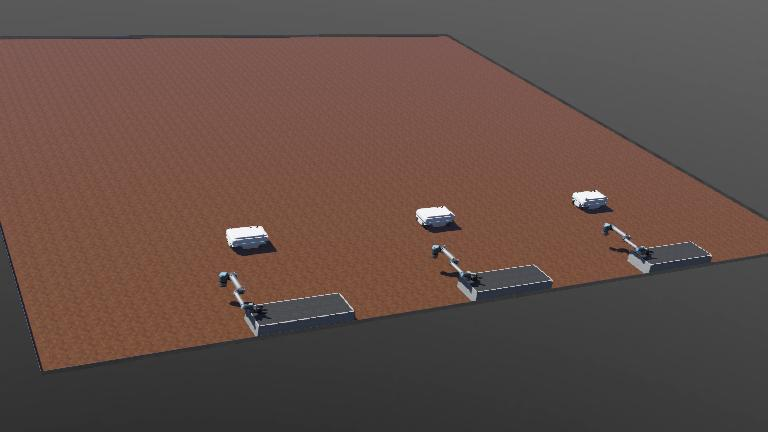
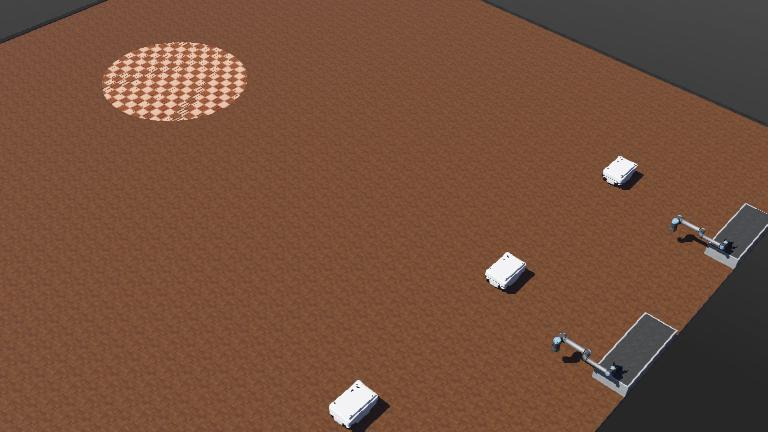
implement dispensing mq

diff --git a/controllers/dispenser_controller/dispenser_controller.py b/controllers/dispenser_controller/dispenser_controller.py
@@ -1,6 +1,11 @@
 """dispenser_controller controller."""
 
 import logging
+import pyrqlite.dbapi2 as dbapi2
+from random import randrange
+import json
+import threading
+import pika
 import time
 from controller import Supervisor
 
@@ -9,12 +14,71 @@ logging.basicConfig(
     format='%(asctime)s - %(levelname)s - %(message)s',  # Set the log message format
 )
 
-robot = Supervisor()
-root_node = robot.getRoot()
-children_field = root_node.getField('children')
+class Dispenser:
+    def __init__(self, db_host:str = 'localhost', db_port:int = 4001, mq_host:str = 'localhost'):
+        self.robot = Supervisor()
+        self.db_host = db_host
+        self.db_port = db_port
+        self.mq_host = mq_host
+        self.timestep = int(self.robot.getBasicTimeStep())
+        self.channel = pika.BlockingConnection(
+            pika.ConnectionParameters(self.mq_host)).channel()
+        self.all_nodes = self.robot.getRoot().getField('children')
+        self.dispenser_counter = 0
 
-timestep = int(robot.getBasicTimeStep())
-children_field.importMFNodeFromString(-1, 'Can { translation -4.3 -9.57 0.37, name "CAN" }')
+        self._init_db()
+        self._init_mq()
 
-while robot.step(timestep) != -1:
-    pass
+        logging.info(f"{self.robot.getName()} initialization complete.")
+
+    def _init_db(self):
+        self.connection = dbapi2.connect(
+            host=self.db_host,
+            port=self.db_port,
+            connect_timeout = 10
+        )
+
+    def _init_mq(self):
+        mq_connection = pika.BlockingConnection(pika.ConnectionParameters(self.mq_host))
+        self.channel = mq_connection.channel()
+        self.channel.exchange_declare(exchange='dispense', exchange_type='direct')
+        result = self.channel.queue_declare(queue=self.robot.name, exclusive=False)
+        self.channel.queue_bind(exchange='dispense', queue=result.method.queue)
+        self.channel.basic_consume(queue=result.method.queue,
+                      auto_ack=True,
+                      on_message_callback=self._message_queue_cb)
+        threading.Thread(target=self.channel.start_consuming).start()
+
+    def _generate_can_node_string(self, x, y, z):
+        result = ""
+        result += "Can { translation "
+        result += f"{x} {y} {z}"
+        result += ", name "
+        result += f"\"can{self.dispenser_counter}\""
+        result += "}"
+        self.dispenser_counter += 1
+        return result
+
+    def _message_queue_cb(self, ch, method, properties, body):
+        msg_json = body.decode('utf8').replace("'", '"')
+        msg = json.loads(msg_json)
+        logging.info(f"Received Dispense: {msg}")
+        if "item" in msg.keys() and "dispenserId" in msg.keys():
+            if msg["item"] == "Can":
+                # TODO: Use DB
+                if msg["dispenserId"] == "ConveyorBelt1":
+                    self.all_nodes.importMFNodeFromString(-1, self._generate_can_node_string(-4.3, -9.57, 0.37))
+                else:
+                    logging.error("Unknown dispenserId requested")
+            else:
+                logging.error("Unknown item requested")
+        else:
+            logging.error(f"Dispense message has errors.")
+
+
+    def run(self):
+        while self.robot.step(self.timestep) != -1:
+            pass
+
+robot = Dispenser()
+robot.run()

diff --git a/controllers/waypoint_follow_controller/waypoint_follow_controller.py b/controllers/waypoint_follow_controller/waypoint_follow_controller.py
@@ -36,14 +36,17 @@ class WaypointFollower:
         self.gps_update_hz = gps_update_hz
         self.move_queue = []
         self.timestep = int(self.robot.getBasicTimeStep())
+        self.channel = pika.BlockingConnection(
+            pika.ConnectionParameters(self.mq_host)).channel()
 
         self._init_sim_components()
         self._init_db()
         self._init_mq()
 
         threading.Thread(target=self._log_state).start()
-        threading.Thread(target=self.channel.start_consuming).start()
         threading.Thread(target=self._process_move_queue).start()
+
+        logging.info(f"{self.robot.getName()} initialization complete.")
 
     def _init_sim_components(self):
         self.motor_left_wheel: Motor = self.robot.getDevice("middle_left_wheel_joint")
@@ -67,14 +70,13 @@ class WaypointFollower:
         )
 
     def _init_mq(self):
-        mq_connection = pika.BlockingConnection(pika.ConnectionParameters(self.mq_host))
-        self.channel = mq_connection.channel()
-        self.channel.exchange_declare(exchange='move', exchange_type='fanout')
+        self.channel.exchange_declare(exchange='move', exchange_type='direct')
         result = self.channel.queue_declare(queue=self.robot.name, exclusive=False)
         self.channel.queue_bind(exchange='move', queue=result.method.queue)
         self.channel.basic_consume(queue=result.method.queue,
                       auto_ack=True,
                       on_message_callback=self._message_queue_cb)
+        threading.Thread(target=self.channel.start_consuming).start()
 
     def _message_queue_cb(self, ch, method, properties, body):
         msg_json = body.decode('utf8').replace("'", '"')

diff --git a/scripts/move_robots.py b/scripts/move_robots.py
@@ -5,18 +5,28 @@ connection = pika.BlockingConnection(pika.ConnectionParameters('localhost'))
 channel = connection.channel()
 
 channel.exchange_declare(exchange='move',
-                         exchange_type='fanout')
+                         exchange_type='direct')
+
+channel.exchange_declare(exchange='dispense',
+                         exchange_type='direct')
 
 channel.queue_declare(queue='Mir100_1')
+channel.queue_declare(queue='dispenser')
 
-channel.basic_publish(exchange='move',
-                      routing_key='Mir100_1',
-                      body='{"name": "PICKUP", "level": "0"}')
+channel.basic_publish(exchange='dispense',
+                      routing_key='dispenser',
+                      body='{"item": "Can", "dispenserId": "ConveyorBelt1"}')
 
 input("Press Enter to continue...")
 
 channel.basic_publish(exchange='move',
                       routing_key='Mir100_1',
-                      body='{"name": "A", "level": "0"}')
+                      body='{"name": "dropoff", "level": "0"}')
+
+input("Press Enter to continue...")
+
+channel.basic_publish(exchange='move',
+                      routing_key='Mir100_1',
+                      body='{"name": "MiR100_1_start", "level": "0"}')
 
 connection.close()

diff --git a/controllers/dropoff_controller/dropoff_controller.py b/controllers/dropoff_controller/dropoff_controller.py
@@ -1,0 +1,38 @@
+"""dropoff_controller controller."""
+
+import logging
+import math
+import time
+from controller import Supervisor
+
+logging.basicConfig(
+    level=logging.INFO,
+    format='%(asctime)s - %(levelname)s - %(message)s',  # Set the log message format
+)
+
+def prune_cans():
+    for i in range(children_field.getCount()):
+        node = children_field.getMFNode(i)
+        node_name = node.getTypeName()
+        if "Can" in node_name:
+            location = node.getPosition()
+            distance = math.sqrt((robot_location[0] - location[0])**2 + (robot_location[1] - location[1])**2)
+            if distance < 2.0:
+                logging.info(f"DropOff for {node_name}")
+                node.remove()
+
+robot = Supervisor()
+
+timestep = int(robot.getBasicTimeStep())
+robot_location = robot.getSelf().getPosition()
+root_node = robot.getRoot()
+children_field = root_node.getField('children')
+
+i = 0
+while robot.step(timestep) != -1:
+    if i == 100:
+        # prune_cans()
+        i = 0
+    else:
+        i+=1
+    pass

diff --git a/scripts/init_rqlite_landmarks.py b/scripts/init_rqlite_landmarks.py
@@ -14,5 +14,6 @@ try:
         cursor.execute('INSERT INTO landmarks(name, x, y, level) VALUES("MiR100_2_start", 0, -6.3, 0)')
         cursor.execute('INSERT INTO landmarks(name, x, y, level) VALUES("MiR100_3_start", 5, -6.3, 0)')
         cursor.execute('INSERT INTO landmarks(name, x, y, level) VALUES("UR10e_1_pickup", -6.22, -7.6, 0)')
+        cursor.execute('INSERT INTO landmarks(name, x, y, level) VALUES("dropoff", -0.00931563, 5.04191, 0)')
 finally:
     connection.close()
